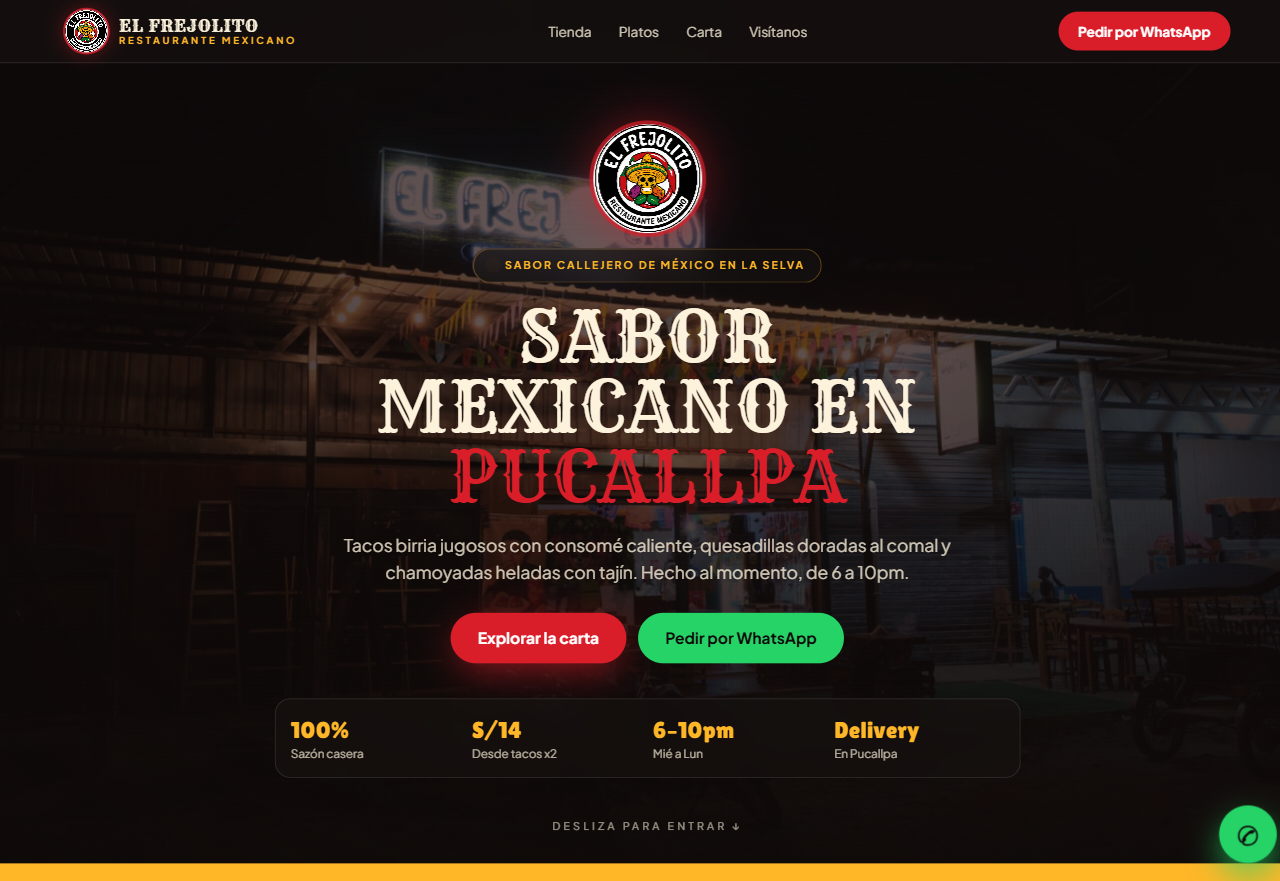
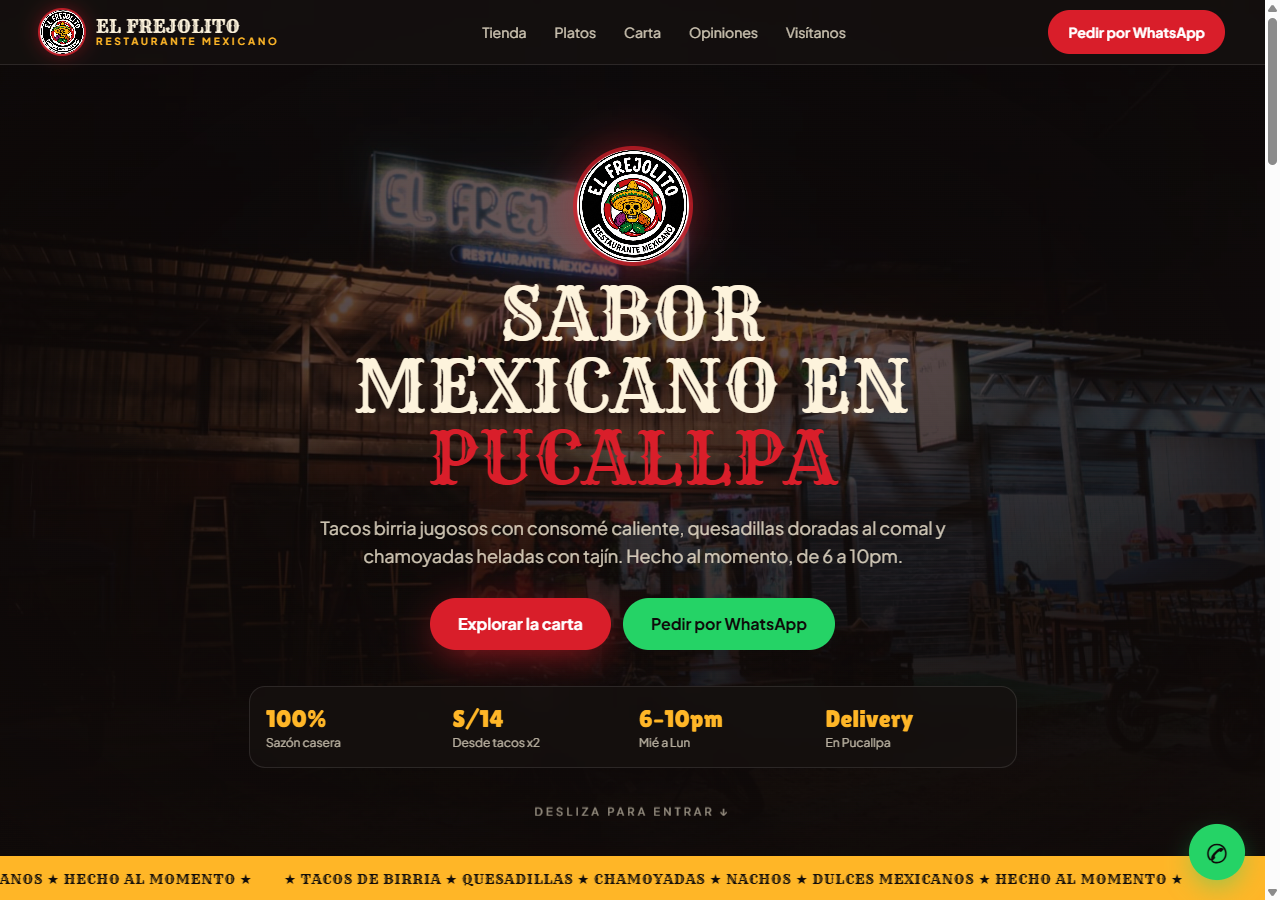
docs(readme): actualiza capturas desktop y móvil y agrega demo en GitHub Pages
Agrega img/hero-movil.png e img/carta-movil.png en 440x956, tabla Demo con la URL de producción verificada y sección de cierre en características. Ignora .playwright-mcp/.

diff --git a/README.md b/README.md
@@ -10,15 +10,24 @@
 
 ## Capturas
 
-| Hero nocturno con logo y CTAs | Carta con filtros por categoría |
+Escritorio (1280px):
+
+| Hero nocturno con logo y CTAs | Carta con filas editoriales por categoría |
 |---|---|
-| ![Hero de El Frejolito con foto del local de noche, logo circular y botones Explorar la carta y Pedir por WhatsApp](img/hero.png) | ![Carta completa con tarjetas de platos, precios en soles y botón Pedir por WhatsApp](img/carta.png) |
+| ![Hero de El Frejolito con foto del local de noche, logo circular y botones Explorar la carta y Pedir por WhatsApp](img/hero.png) | ![Carta completa con filas numeradas en serif, precios en soles y Pedir por WhatsApp a la derecha](img/carta.png) |
+
+Móvil 440x956 (iPhone 16 Pro Max):
+
+| Hero en móvil | Carta en móvil |
+|---|---|
+| ![Hero de El Frejolito en pantalla de 440px con titular, CTAs y datos](img/hero-movil.png) | ![Carta completa en pantalla de 440px con tabs y filas de platos](img/carta-movil.png) |
 
 El cliente recorre la página, filtra la carta por categoría y pulsa Pedir: se abre WhatsApp con el mensaje ya armado. El dueño actualiza platos y precios editando el arreglo `ITEMS` en `app.js`.
 
 ## Tabla de contenidos
 
 - [Descripción](#descripción)
+- [Demo](#demo)
 - [Características principales](#características-principales)
 - [Stack tecnológico](#stack-tecnológico)
 - [Arquitectura](#arquitectura)
@@ -33,7 +42,14 @@ El cliente recorre la página, filtra la carta por categoría y pulsa Pedir: se 
 
 El Frejolito atiende de noche en Yarinacocha (Pucallpa) y recibe pedidos por WhatsApp al +51 907 318 885. Necesitaba una vitrina que muestre el local, los platos con foto real y la carta con precios en soles, sin carrito ni backend que mantener.
 
-La página resuelve eso con un solo `index.html` más `styles.css` y `app.js`: hero de pantalla completa con `local.jpg`, sección La tienda, 3 platos estrella con foto (`taco bel.jpg`, `chamoyada.jpg`, `varios platos en taper para pedidos.jpg`), carta filtrable por 6 categorías, ubicación con horario y enlace a Google Maps, CTA final y botón flotante de WhatsApp.
+La página resuelve eso con un solo `index.html` más `styles.css` y `app.js`: hero de pantalla completa con `local.jpg`, sección La tienda, 3 platos estrella con foto (`taco bel.jpg`, `chamoyada.jpg`, `varios platos en taper para pedidos.jpg`), carta filtrable por 5 categorías, 3 opiniones reales de Google Maps, ubicación con horario y enlace a Maps, cierre con titular serif y footer en 4 columnas, más botón flotante de WhatsApp.
+
+## Demo
+
+| Capa | URL |
+|---|---|
+| Producción (GitHub Pages) | https://teverde29.github.io/Pagina-web-Frejolito/ |
+| Repo | https://github.com/TeVerde29/Pagina-web-Frejolito |
 
 Decisiones clave: sitio 100% estático, sin `package.json` ni build — se publica tal cual. La carta vive en el arreglo `ITEMS` de `app.js`, no en un CMS: cada plato define categoría, nombre, precio, descripción, etiqueta y fragmento de mensaje. Cada botón Pedir construye una URL `https://wa.me/51907318885?text=...` con el plato precargado. El scroll suave usa Lenis 1.1.14 sincronizado al `ticker` de GSAP y los reveals usan ScrollTrigger; con `prefers-reduced-motion` todo el movimiento se desactiva.
 
@@ -46,6 +62,7 @@ Decisiones clave: sitio 100% estático, sin `package.json` ni build — se publi
 - **Identidad del local:** logo real `logo.png` en nav, hero, footer y favicon; display en `Rye` (la del rótulo en `logo con letra.png`), precios en `Lilita One`, cuerpo en `Plus Jakarta Sans`.
 - **Paleta de `design.md`:** crema `#FDF3DC`, noche `#0E0B0A`, rojo chamoy `#D91E2A`, mango `#FFB627`, guacamole `#5A9A3B`.
 - **Opiniones reales:** 3 reseñas de Google Maps con estrellas, inicial y enlace a ver todas.
+- **Cierre estilo Arko:** titular serif centrado, pill de WhatsApp, motivo de círculos concéntricos y footer en 4 columnas (marca, visítanos, horario, contacto).
 - **Accesibilidad aplicada:** textos chicos en `chamoyl` `#FF7A7A` (≥4.5:1 sobre noche), tabs y Pedir con 44px de toque, `loading="lazy"` fuera del hero y fallback `noscript`.
 - **SEO local y datos estructurados:** meta description, JSON-LD `Restaurant` con dirección, teléfono, horario y mapa.
 
@@ -106,7 +123,7 @@ Flujo básico de uso:
 | Navegador | Chrome, Edge, Firefox o Safari actual (CSS moderno + `backdrop-filter`) |
 | Conexión | Internet activo para CDN y Google Fonts |
 | Servidor local | Python 3 (`http.server`) o cualquier estático (Live Server, `npx serve`) |
-| Pantalla | Responsive desde 360px; capturas tomadas a 1280px |
+| Pantalla | Responsive desde 360px; capturas desktop a 1280px y móvil a 440x956 |
 
 ## Carta y formato del pedido
 
@@ -132,12 +149,12 @@ Precios pendientes de validar con el local (ver `design.md`): Enchiladas Rojas (
 2. Assets: las 5 fotos y `logo.png` responden 200 en el servidor local (verificado en log del 2026-10-14).
 3. Carta: 15 items en 5 categorías (Tacos inicial); cada tab muestra solo su grupo y el botón Pedir lleva el mensaje del plato.
 4. Movimiento: scroll suave sin saltos, parallax del hero y reveals por sección; con `prefers-reduced-motion` la página queda estática y legible.
-5. Capturas: `img/hero.png` e `img/carta.png` tomadas del sitio corriendo en local a 1280px.
+5. Capturas: `img/hero.png` e `img/carta.png` a 1280px y `img/hero-movil.png` e `img/carta-movil.png` a 440x956, tomadas del sitio corriendo en local.
 
 ## Notas de deploy
 
 1. Es un sitio estático: basta servir la carpeta tal cual (GitHub Pages, Netlify, Cloudflare Pages).
-2. GitHub Pages aún no está activo: `https://teverde29.github.io/Pagina-web-Frejolito/` devuelve 404 (verificado 2026-10-14). Para activarlo: Settings → Pages → Deploy from branch → `main` / root.
+2. GitHub Pages activo en `https://teverde29.github.io/Pagina-web-Frejolito/` (verificado 200 el 2026-10-14, rama `main` / root).
 3. Los nombres de archivo con espacios funcionan codificados, pero renombrarlos (ej. `taco-bel.jpg`) evita errores al mover de hosting.
 
 ---
